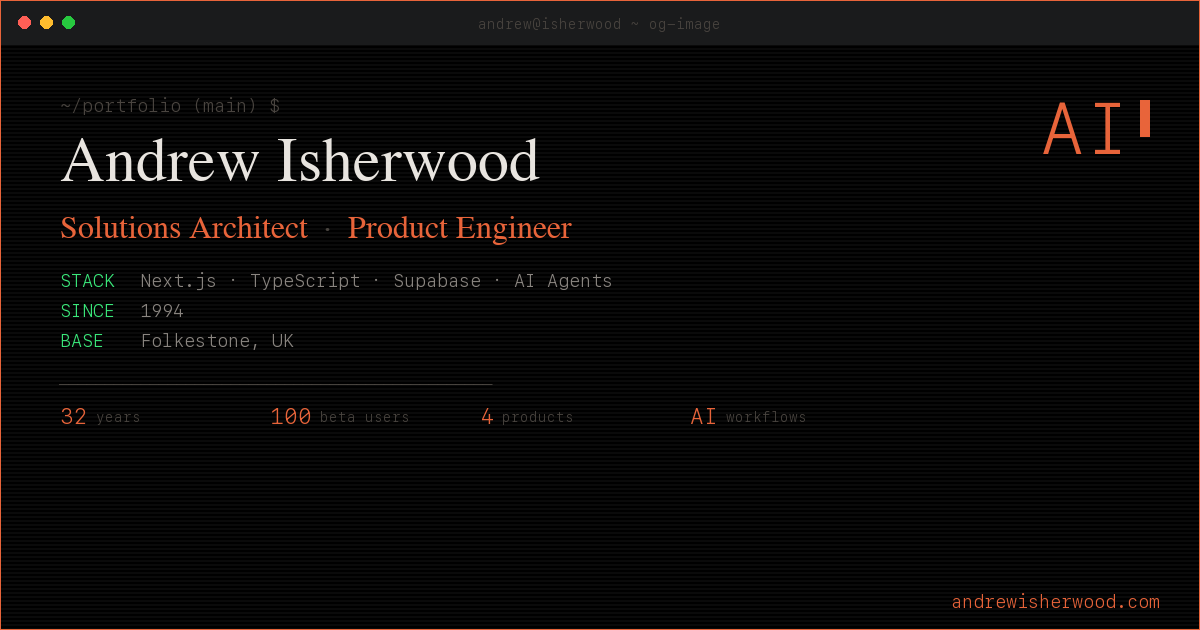
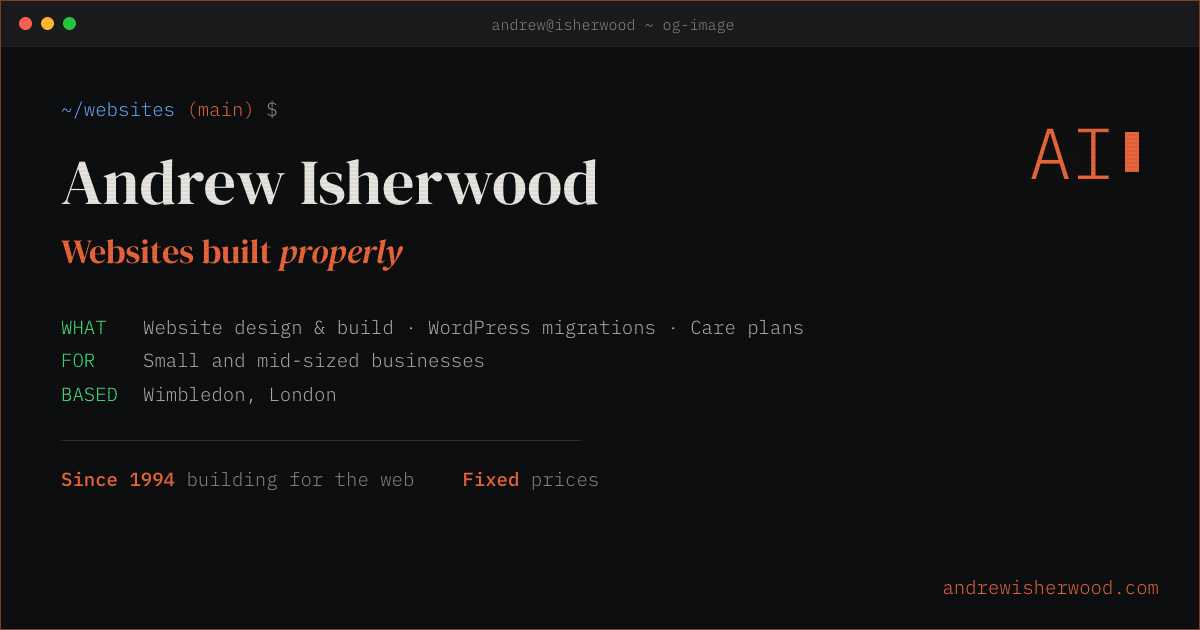
feat: new OG image for client positioning (with HTML source)

diff --git a/docs/og-image.html b/docs/og-image.html
@@ -1,0 +1,65 @@
+<!DOCTYPE html>
+<!--
+  Source for /og-image.png (1200x630).
+  To regenerate: serve the repo root locally, open /docs/og-image.html in a
+  browser at exactly 1200x630, and screenshot the viewport to og-image.png.
+-->
+<html lang="en-GB">
+<head>
+<meta charset="UTF-8">
+<meta name="robots" content="noindex">
+<title>OG image source</title>
+<link rel="stylesheet" href="/styles/base.css">
+<style>
+  html, body { width: 1200px; height: 630px; overflow: hidden; margin: 0; }
+  body::before { opacity: 0.6; }
+  .og {
+    position: relative;
+    width: 1200px; height: 630px;
+    background: var(--bg-screen);
+    border: 1px solid rgba(232, 100, 58, 0.55);
+    display: flex; flex-direction: column;
+  }
+  .og .terminal-chrome { height: 46px; padding: 0 18px; gap: 9px; }
+  .og .terminal-chrome .dot { width: 13px; height: 13px; }
+  .og .terminal-chrome .title { font-size: 15px; }
+  .og-body { flex: 1; padding: 46px 60px 0; position: relative; }
+  .og-prompt { font-family: var(--mono); font-size: 19px; color: var(--text-dim); }
+  .og-prompt .path { color: var(--blue); }
+  .og-prompt .branch { color: var(--phosphor); }
+  .og-name { font-family: var(--serif); font-size: 64px; line-height: 1.05; margin: 22px 0 8px; color: var(--text); }
+  .og-role { font-family: var(--serif); font-size: 34px; color: var(--phosphor); }
+  .og-role em { font-style: italic; }
+  .og-kv { font-family: var(--mono); font-size: 19px; line-height: 1.75; color: var(--text-muted); margin-top: 30px; }
+  .og-kv .k { display: inline-block; width: 82px; color: var(--green); }
+  .og-rule { width: 520px; height: 1px; background: rgba(232, 100, 58, 0.25); margin: 30px 0 22px; }
+  .og-foot { font-family: var(--mono); font-size: 19px; color: var(--text-dim); display: flex; gap: 48px; }
+  .og-foot b { color: var(--phosphor); font-weight: 500; }
+  .og-logo { position: absolute; top: 44px; right: 60px; font-family: var(--mono); font-size: 72px; color: var(--phosphor); display: flex; align-items: center; gap: 10px; text-shadow: 0 0 40px var(--phosphor-glow); }
+  .og-logo span { width: 14px; height: 40px; background: var(--phosphor); display: inline-block; }
+  .og-url { position: absolute; right: 40px; bottom: 26px; font-family: var(--mono); font-size: 19px; color: var(--phosphor); }
+</style>
+</head>
+<body>
+  <div class="og">
+    <div class="terminal-chrome">
+      <div class="dot r"></div><div class="dot y"></div><div class="dot g"></div>
+      <div class="title">andrew@isherwood ~ og-image</div>
+    </div>
+    <div class="og-body">
+      <div class="og-logo">AI<span></span></div>
+      <div class="og-prompt"><span class="path">~/websites</span> <span class="branch">(main)</span> $</div>
+      <div class="og-name">Andrew Isherwood</div>
+      <div class="og-role">Websites built <em>properly</em></div>
+      <div class="og-kv">
+        <div><span class="k">WHAT</span>Website design &amp; build · WordPress migrations · Care plans</div>
+        <div><span class="k">FOR</span>Small and mid-sized businesses</div>
+        <div><span class="k">BASED</span>Wimbledon, London</div>
+      </div>
+      <div class="og-rule"></div>
+      <div class="og-foot"><span><b>Since 1994</b> building for the web</span><span><b>Fixed</b> prices</span></div>
+    </div>
+    <div class="og-url">andrewisherwood.com</div>
+  </div>
+</body>
+</html>
